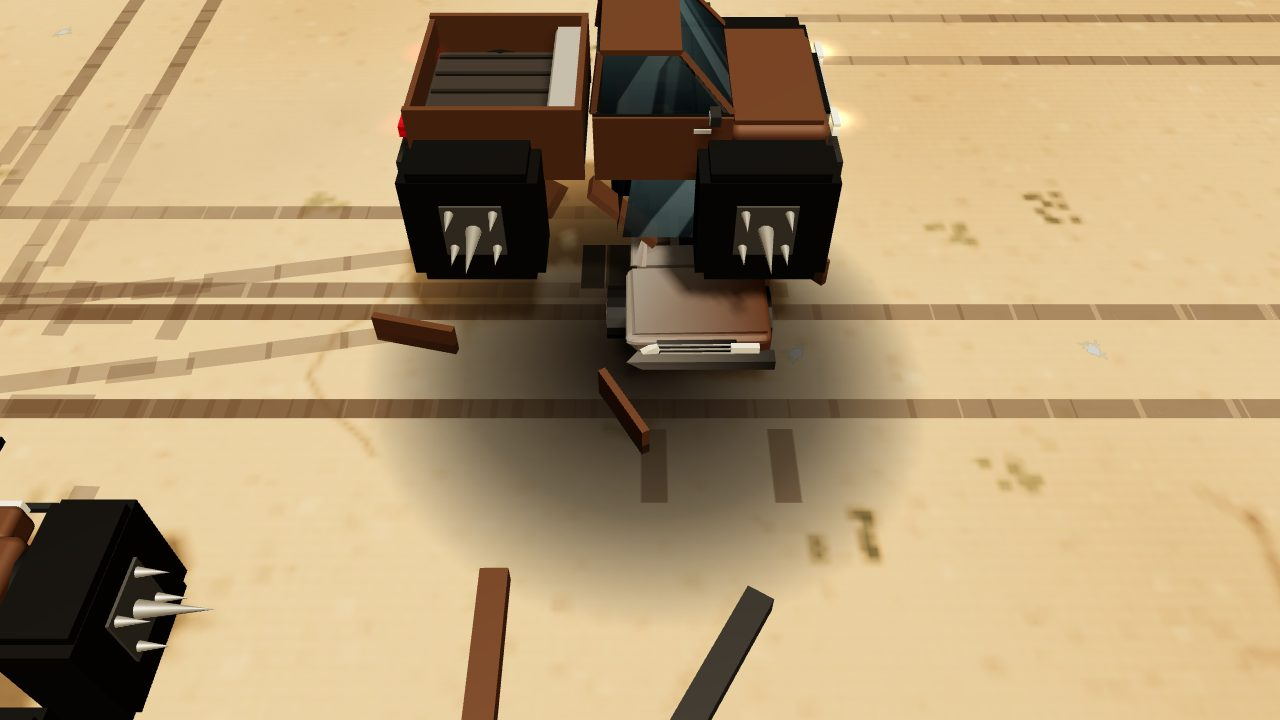
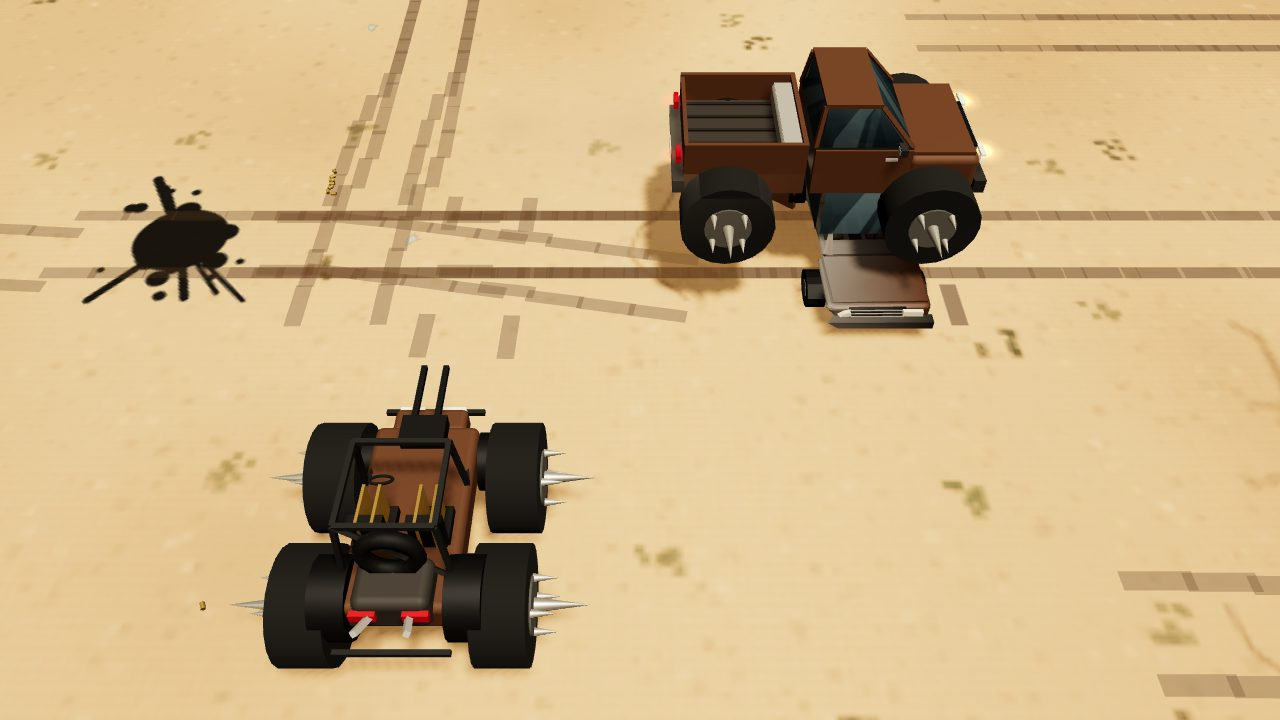
feat(workshop): round monster tyres, grappling hooks that bite one throw in three

diff --git a/web/src/systems/garage.js b/web/src/systems/garage.js
@@ -13,7 +13,7 @@ import { FACES6, ARMOR, CHASSIS, PERF, POWER, MOUNT_WEAPONS, UTILITY, PAINTS } f
 // Weight re-tunes the car from its base row (data/workshop.js PERF: slower off the line, a lower top speed, a lazier turn,
 // longer stops). The counter, the guns and the screen are systems/workshop.js and ui/workshop.js.
 // Plates and mounts are drawn by one InstancedMesh packed each frame from the cars near the player.
-const MAX_INST = 420, MAX_SPIKES = 96, VIEW_R = 90, MAX_HAZARDS = 32;
+const MAX_INST = 420, MAX_SPIKES = 96, MAX_TYRES = 64, VIEW_R = 90, MAX_HAZARDS = 32;
 const FACES = ['front', 'rear', 'left', 'right'];
 const STEEL = new THREE.Color('#4b4945'), GUN = new THREE.Color('#1c1c1c'), RUST = new THREE.Color('#6a3a22'), BRASS = new THREE.Color('#9a7a3a'),
   TILE = new THREE.Color('#77705f'), BLADE = new THREE.Color('#5d5a54'), TIP = new THREE.Color('#9b2a1c'), TANK = new THREE.Color('#5a4a22'), COIL = new THREE.Color('#3f6f78'),
@@ -40,6 +40,12 @@ export class Garage {
     this.spikes.instanceMatrix.setUsage(THREE.DynamicDrawUsage);
     this.spikes.frustumCulled = false; this.spikes.castShadow = true; this.spikes.count = 0; this.spikes.visible = false;
     game.scene.add(this.spikes);
+    // Monster tyres are cylinders (axle along x), tyre and hub as instance colours: one more draw, only near monsters.
+    this.tyres = new THREE.InstancedMesh(new THREE.CylinderGeometry(1, 1, 1, 20).rotateZ(Math.PI / 2), new THREE.MeshStandardMaterial({ roughness: 0.9, metalness: 0.1 }), MAX_TYRES);
+    this.tyres.instanceMatrix.setUsage(THREE.DynamicDrawUsage);
+    this.tyres.setColorAt(0, RUBBER);
+    this.tyres.frustumCulled = false; this.tyres.castShadow = true; this.tyres.count = 0; this.tyres.visible = false;
+    game.scene.add(this.tyres);
     this.hazards = [];
   }
 
@@ -317,8 +323,14 @@ export class Garage {
 
   // Plates and mounts on every car near the player: one instanced draw.
   pack() {
-    const g = this.g, P = g.player, M = this.mesh, SP = this.spikes;
-    let n = 0, ns = 0;
+    const g = this.g, P = g.player, M = this.mesh, SP = this.spikes, TY = this.tyres;
+    let n = 0, ns = 0, nt = 0;
+    const tyre = (lx, ly, lz, w, r, col) => {
+      if (nt >= MAX_TYRES) return;
+      _q.identity();
+      _l.compose(_p.set(lx, ly, lz), _q, _s.set(w, r, r));
+      TY.setMatrixAt(nt, _l.premultiply(_m)); TY.setColorAt(nt++, col);
+    };
     // A cone from the hub out: (lx, ly, lz) its base in the body frame, `len` long, pointing yaw (0 = +x) and tipped `tilt`.
     const spike = (lx, ly, lz, len, rad, yaw, tilt = 0) => {
       if (ns >= MAX_SPIKES) return;
@@ -363,7 +375,7 @@ export class Garage {
         const reach = U.hubspikes ? UTILITY.hubspikes.hub.reach : 0;
         for (const sx of [1, -1]) for (const az of [ax, -ax]) {
           const wx = sx * (W / 2 + (MO ? tw * 0.42 : 0.02));
-          if (MO) { put(wx, cy, az, tw, r * 2, r * 1.7, RUBBER); put(wx, cy, az, tw * 1.02, r * 1.7, r * 2, RUBBER); put(wx + sx * tw * 0.52, cy, az, 0.05, r * 0.9, r * 0.9, STEEL); }
+          if (MO) { tyre(wx, cy, az, tw, r, RUBBER); tyre(wx + sx * tw * 0.5, cy, az, 0.06, r * 0.5, STEEL); }
           if (U.hubspikes) {
             const hx = wx + sx * (tw / 2 + 0.02), yaw = sx > 0 ? 0 : Math.PI;
             spike(hx, cy, az, reach + 0.15, 0.1, yaw);
@@ -394,6 +406,7 @@ export class Garage {
     M.count = n;
     M.visible = n > 0;
     SP.count = ns; SP.visible = ns > 0; SP.instanceMatrix.needsUpdate = true;
+    TY.count = nt; TY.visible = nt > 0; TY.instanceMatrix.needsUpdate = true; if (TY.instanceColor) TY.instanceColor.needsUpdate = true;
     M.instanceMatrix.needsUpdate = true;
     if (M.instanceColor) M.instanceColor.needsUpdate = true;
   }

diff --git a/web/src/systems/vehicles.js b/web/src/systems/vehicles.js
@@ -572,13 +572,18 @@ export class Vehicles {
   }
 
   // ---- harpoon -------------------------------------------------------------------------
-  fireHarpoon(v, ang) {
+  // opts (a workshop mount, data/workshop.js): front = thrown off the nose, not the tail; grapple = { lengths, hook }: the
+  // chain reaches lengths x this car's length and bites one throw in `hook`, the rest skid off and reel back in.
+  fireHarpoon(v, ang, opts = {}) {
     if (this.harpoon) {
       if (this.harpoon.state === 'attached') this.yank();
       return;
     }
-    const ox = v.x - Math.sin(v.h) * 1.4, oz = v.z - Math.cos(v.h) * 1.4;
-    this.harpoon = { from: v, x: ox, z: oz, dx: Math.sin(ang), dz: Math.cos(ang), dist: 0, target: null, kind: null, state: 'flying', len: 0 };
+    const end = opts.front ? 1 : -1, off = opts.front ? v.len / 2 - 0.2 : 1.4;
+    const ox = v.x + Math.sin(v.h) * off * end, oz = v.z + Math.cos(v.h) * off * end;
+    const G = opts.grapple;
+    this.harpoon = { from: v, x: ox, z: oz, dx: Math.sin(ang), dz: Math.cos(ang), dist: 0, target: null, kind: null, state: 'flying', len: 0,
+      end, off, reach: G ? G.lengths * v.len : 48, hook: G ? G.hook : 1, grapple: !!G };
     this.g.audio.harpoon();
     this.g.hud.shake(0.3);
   }
@@ -623,7 +628,7 @@ export class Vehicles {
     const g = this.g;
     const v = h.from;
     if (v.dead || v.driver !== g.player) { this.releaseHarpoon(); return; }
-    const ax = v.x - Math.sin(v.h) * 1.4, az = v.z - Math.cos(v.h) * 1.4;
+    const ax = v.x + Math.sin(v.h) * (h.off ?? 1.4) * (h.end ?? -1), az = v.z + Math.cos(v.h) * (h.off ?? 1.4) * (h.end ?? -1);
     let bx, bz;
     if (h.state === 'flying') {
       const step = 95 * dt;
@@ -640,8 +645,15 @@ export class Vehicles {
         const d = Math.hypot(c.x - (h.x + h.dx * step * 0.5), c.z - (h.z + h.dz * step * 0.5));
         if (d < 0.8 + step * 0.5) { hit = c; kind = 'char'; best = 0; break; }
       }
+      if (hit && Math.random() >= h.hook) { // a grapple that didn't bite: it skids off and reels in
+        g.fx.sparks(h.x, 1.2, h.z, -h.dx, -h.dz, 6); g.audio.clank();
+        g.emit('grappleMiss', { vehicle: v.id, target: hit.id });
+        if (v.driver === g.player) g.hud.toast('DIDN\'T BITE — REELING IN', 'warn');
+        h.state = 'retract'; hit = null;
+      }
       if (hit) {
         h.state = 'attached'; h.target = hit; h.kind = kind;
+        g.emit('grappleHit', { vehicle: v.id, target: hit.id, kind, grapple: h.grapple });
         h.len = Math.max(6, Math.hypot(hit.x - ax, hit.z - az));
         if (kind === 'char') {
           hit.dragged = h; g.combat.damage(hit, 55, g.player, h.dx, h.dz, 'bullet');
@@ -649,7 +661,7 @@ export class Vehicles {
         } else {
           this.damage(hit, 20, g.player);
           g.fx.sparks(hit.x, 1.2, hit.z, -h.dx, -h.dz, 12);
-          g.hud.toast('HOOKED — [H] TO YANK', 'hot');
+          g.hud.toast(h.grapple ? 'HOOKED — FIRE AGAIN TO YANK' : 'HOOKED — [H] TO YANK', 'hot');
           if (hit.driver && hit.driver !== g.player) g.ai.onDamaged(hit.driver, g.player);
         }
         g.audio.clank();
@@ -660,7 +672,7 @@ export class Vehicles {
         h.state = 'retract';
       } else {
         h.x += h.dx * step; h.z += h.dz * step; h.dist += step;
-        if (h.dist > 48) h.state = 'retract';
+        if (h.dist > h.reach) h.state = 'retract'; // the end of the chain
       }
       bx = h.x; bz = h.z;
     } else if (h.state === 'retract') {

diff --git a/web/src/agent/workshop-api.js b/web/src/agent/workshop-api.js
@@ -265,6 +265,34 @@ export async function workshopChecks({ g, api, C, check, stage, person }) {
     return fast.ride === UTILITY.monster.monster.lift && fast.climbed && fast.peak > 1 && fast.crushed > 0 && fast.hp[1] < fast.hp[0] && !slow.climbed ? true : JSON.stringify({ fast, slow });
   });
 
+  await check('workshop: a grapple bites one throw in three (a miss skids off and reels in), reaches its rig\'s car lengths, and throws off the nose or the tail', async () => {
+    await stage();
+    // One throw: fit `part` on `face`, a sedan `dist` m off that end, the dice pinned to `roll` for the flight (staged).
+    const thr = async (part, face, dist, roll) => {
+      const v = await spawn('pickup', 0, 0, Math.PI / 2), end = face === 'front' ? 1 : -1;
+      const o = await spawn('sedan', end * (dist + v.len / 2), 0, 0);
+      fit(v, part, face);
+      await C('enterVehicle', { id: v.id, force: true });
+      const seq0 = g.eventSeq, rnd = Math.random;
+      let ev = [];
+      try {
+        Math.random = () => roll;
+        await C('mount', { group: face === 'front' ? 1 : 2, id: o.id });
+        for (let i = 0; i < 90 && !ev.length; i++) { await api._step(1); ev = ((await C('events', { since: seq0 })).events ?? []).filter((e) => e.type === 'grappleHit' || e.type === 'grappleMiss'); }
+      } finally { Math.random = rnd; }
+      const out = ev[0]?.type ?? 'none';
+      g.vehiclesSys.releaseHarpoon(); g.exitVehicle(true); cleanup(v, o);
+      return out;
+    };
+    const len = VEHICLES.pickup.len, G = MOUNT_WEAPONS.grapple.grapple, GR = MOUNT_WEAPONS.grapple_rig.grapple;
+    const r = {
+      bite: await thr('grapple', 'rear', len * 2, G.hook - 0.01), skid: await thr('grapple', 'rear', len * 2, G.hook + 0.01),
+      short: await thr('grapple', 'rear', len * (G.lengths + 1), 0), rigged: await thr('grapple_rig', 'rear', len * (G.lengths + 1), 0),
+      nose: await thr('grapple', 'front', len * 2, 0),
+    };
+    return r.bite === 'grappleHit' && r.skid === 'grappleMiss' && r.short === 'none' && r.rigged === 'grappleHit' && r.nose === 'grappleHit' && Math.abs(G.hook - 1 / 3) < 1e-9 && GR.lengths > G.lengths ? true : JSON.stringify(r);
+  });
+
   await check('workshop: hub spikes - drive alongside and they eat the other car\'s tyre and flank on that side', async () => {
     await stage();
     const v = await spawn('sedan', 0, -14, 0), o = await spawn('sedan', 2.5, 0, 0); // o parked 2.5 m to v's left (+x), 14 m up the road

diff --git a/web/src/data/workshop.js b/web/src/data/workshop.js
@@ -120,6 +120,14 @@ export const MOUNT_WEAPONS = {
   harpoon:    { name: 'HARPOON GUN', kind: 'harpoon', size: 2, kg: 110, price: 600, labour: 1.5, faces: ['front', 'rear', 'top'], type: 'bullet',
                 mag: 0, rate: 0.6, range: 40,
                 desc: 'A whaling gun on a cable drum. Bite a car and tow it; fire again and yank it off its wheels.' },
+  // Grapples: a hook on a chain (vehicles.js fireHarpoon). reach = lengths x your car's length; it bites one throw in
+  // `hook` (the rest skid off and reel back in). Rig it heavier for more chain. A skill can raise `hook` later: one knob.
+  grapple:    { name: 'GRAPPLING HOOK', kind: 'harpoon', size: 1, kg: 45, price: 250, labour: 0.75, faces: ['front', 'rear'], type: 'bullet',
+                mag: 0, rate: 0.9, grapple: { lengths: 3, hook: 1 / 3 },
+                desc: 'A four-prong hook on three car lengths of chain. One throw in three it bites; then you own that car until the chain gives.' },
+  grapple_rig: { name: 'RIGGED GRAPPLE', kind: 'harpoon', size: 2, kg: 95, price: 700, labour: 1.5, faces: ['front', 'rear'], type: 'bullet',
+                mag: 0, rate: 0.9, grapple: { lengths: 6, hook: 1 / 3 },
+                desc: 'The same hook on a winch drum and six car lengths of chain. Still bites one throw in three, from twice as far.' },
   minedrop:   { name: 'MINE DROPPER', kind: 'drop', size: 1, kg: 50, price: 400, labour: 1, faces: ['rear'], group: 2, type: 'blast',
                 mag: 4, ammo: 'car_mine', perItem: 1, mine: { arm: 1.2, r: 2.2, dmg: 120, blast: 5, life: 120 },
                 desc: 'A chute of pressure mines. Arms a second after it lands; the next set of wheels over it goes up.' },

diff --git a/web/src/systems/workshop.js b/web/src/systems/workshop.js
@@ -345,7 +345,7 @@ export class Workshop {
     else if (W.kind === 'flame') this.flame(v, mz, a, W, shooter);
     else if (W.kind === 'beam') this.beam(v, mz, dx, dz, W, shooter, 1);
     else if (W.kind === 'rail') this.beam(v, mz, dx, dz, W, shooter, W.pierce);
-    else if (W.kind === 'harpoon') { if (v.driver === g.player) g.vehiclesSys.fireHarpoon(v, a); else return false; }
+    else if (W.kind === 'harpoon') { if (v.driver === g.player) g.vehiclesSys.fireHarpoon(v, a, { front: face === 'front', grapple: W.grapple }); else return false; }
     else if (W.kind === 'emp') this.emp(v, mz, a, W, shooter);
     g.emit('mountFire', { vehicle: v.id, face, kind: m.kind, by: shooter?.id ?? null });
     return true;

diff --git a/docs/design/WEB_WORKSHOP.md b/docs/design/WEB_WORKSHOP.md
@@ -83,7 +83,7 @@ X take off, R repair the face, U/Tab/Esc close. Pad (menu context): D-pad, A fit
 **Wheels** (Robert, 2026-10-29; the WHEELS tab). One TREAD a car (`set: 'tread'`: fitting one swaps the last out; stock
 tyres are 1.0 everywhere): ROAD (grip +18% on pavement, -20% off it, top speed +4% on pavement), OFF-ROAD (-12% / +22%,
 wades 0.15 m deeper), ON/OFF-ROAD (+6% / +6%), and MONSTER TYRES (scarce; buggy, sedan, interceptor, pickup, patrol, van
-only: -8% / +20%, the body rides 0.6 m higher on tyres 2.2x stock, hull held 0.5 m out of a ford, handling x0.8, top x0.93,
+only: -8% / +20%, the body rides 0.6 m higher on round tyres 2.2x stock (cylinders, one instanced draw near a monster), hull held 0.5 m out of a ford, handling x0.8, top x0.93,
 240 kg, a nose that hits like a ram x1.6). AND THEY CLIMB: a monster that hits a car under 2.2 m tall nose-first at 7 m/s
 closing or more does not bounce off it, it goes up and over. On the roof (body up to 0.85 x the car's height, sagging
 as it caves) it does 60 hp/s to the car, 18/s to everyone inside, a 14-point crash to the car's parts every 0.25 s, pins
@@ -94,6 +94,13 @@ everything else is dirt. HUB SPIKES: blades out past the tyres. Anything alongsi
 other car's flank (24/s, scaled by closing speed) and its nearer tyre on that side (45% a tick, gone in three), anyone on
 foot by your wheels (35/s), and hands on your doors (grip -3/s). Drawn as steel cones out of each hub: one long blade
 straight out, four short ones round it (one instanced draw, only while a spiked car is near). Run-flat and puncture-proof tyres moved to this tab.
+
+**Grapples** (Robert, 2026-10-29). A hook on a chain, thrown off the nose or the tail (the harpoon's machinery,
+`vehicles.js fireHarpoon`). GRAPPLING HOOK (size 1, $250): 3 car lengths of chain. RIGGED GRAPPLE (size 2, $700, a winch
+drum): 6 car lengths. Either way it BITES ONE THROW IN THREE (`grapple.hook` = 1/3): a miss skids off in sparks ("DIDN'T
+BITE") and reels in, ready to throw again. A bite tows like the harpoon (the chain goes taut, the lighter car is dragged,
+it snaps 4 m past its length) and the second pull YANKS it sideways off its line. `hook` is the one knob a driving or
+mechanics skill can raise later. The HARPOON GUN stays: always bites, 40 m, a size-2 cable gun.
 
 **THE OPEN FRONT LAW** (Robert, 2026-10-29). From inside a car you shoot out over the hood only when nothing is in the
 way: an open rig (buggy, bike, quad, airboat: no glass), a windshield pulled at the workshop (`nowindshield`, $30: the
@@ -121,6 +128,7 @@ top  *= monster.top(0.93) x (road tyres on pavement: 1.04);  turn *= monster.tur
 climb starts when monster && closing >= 7 m/s && the other car is in the monster's FRONT face && other.tall < 2.2
 on the roof: climbY -> other.tall x (0.85 - 0.25 x crushed); crushed += 1.5/s (max 1); other body scale.y = 1 - 0.38 x crushed
 ford depth seen by the hull = max(0, water depth - tread.wade)          (wade: off-road 0.15, monster 0.5 m)
+grapple reach = lengths x your car's length (pickup 5.0 m: 15 m / 30 m); bites if random < hook (1/3)
 hub spikes per 0.25 s tick: flank dmg = 24 x 0.25 x min(2, closing/8 + 0.5); tyre -= 0.45; person dmg = 35 x 0.25 x min(2, speed/8)
 ```
 
@@ -183,6 +191,7 @@ face)` and `blast(...)` (gadgets: drones from above pass `face: 'top'`), `v.flar
 | ford lift | `tread.wade` | 0.15 / 0.5 m | 0-0.8 |
 | hub spike car / tyre / person | `UTILITY.hubspikes.hub` | 24 / 0.45 / 35 | 10-40 / 0.25-1 / 15-60 |
 | monster climb speed / max height car / roof dps | `monster.climb` | 7 m/s / 2.2 m / 60 | 5-12 / 1.8-2.6 / 30-120 |
+| grapple bite chance / chain | `MOUNT_WEAPONS.grapple*.grapple` | 1/3 / 3 and 6 lengths | 0.2-0.6 / 2-8 |
 | monster ride height | `monster.lift` | 0.6 m | 0.3-1 |
 | windshield bust-out time | `carcombat.js FRONT_KICK` | 0.8 s | 0.3-1.5 |
 
@@ -203,12 +212,14 @@ face)` and `blast(...)` (gadgets: drones from above pass `face: 'top'`), `v.flar
 9. MONSTER TYRES: a buggy takes them and a bike refuses; handling drops, the ford lift and the ram multiplier are the rows'.
 10. MONSTER CLIMB: the body rides exactly `lift` higher; driven flat out at a broadside sedan it climbs (event), rides more
     than 1 m up, caves the roof and costs it hp; crept into the same car at 12% throttle it does not climb.
-11. HUB SPIKES: driven past a parked car, they hit its flank (hp drops) and only its tyres on the facing side.
-12. THE OPEN FRONT: behind glass the first forward pull fires nothing and kicks the windshield out, a second at once is still
+11. GRAPPLES: with the dice pinned just under 1/3 it bites, just over it skids off; 4 lengths away the 3-length hook
+    reaches nothing and the rigged one bites; thrown off the nose it bites too.
+12. HUB SPIKES: driven past a parked car, they hit its flank (hp drops) and only its tyres on the facing side.
+13. THE OPEN FRONT: behind glass the first forward pull fires nothing and kicks the windshield out, a second at once is still
     busy, after 1 s it fires; a buggy and a pulled windshield fire ahead at once (the pulled pane draws nothing); a side shot
     still shoots out its own window.
-13. The screen opens with seven tabs, every tab lists rows, E fits a part, F walks to the next tab, Esc closes.
-14. What the car wears (plate kinds, every mount, gadgets, paint) rides a save and a load.
+14. The screen opens with seven tabs, every tab lists rows, E fits a part, F walks to the next tab, Esc closes.
+15. What the car wears (plate kinds, every mount, gadgets, paint) rides a save and a load.
 
 `scenario name=arena-night`: the loaner against three built Dustwolf cars at night in the Glass Flats; reports fire, rockets,
 breaches, slicks and kills. Renders: `docs/renders/web/workshop/01-armor.png` ... `06-paint.png` (Playwright, 1920x1080 full
